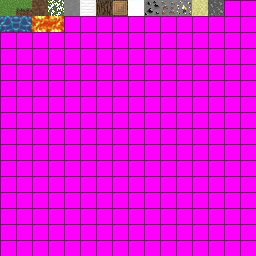
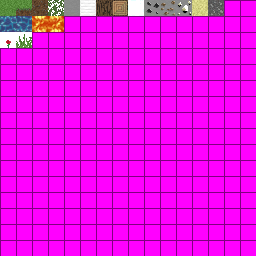
hello again, my exams went amazing, anyways, i retextured some of the textures, so now they are not stolen (sorry jdh), i also added cross blocks (like rose and grass_cross) spawning on some grass

Changed region(s): [[0.0, 0.0, 0.1875, 0.1875], [0.5625, 0.0, 0.75, 0.0625]]

diff --git a/src/chunk.c b/src/chunk.c
@@ -36,6 +36,8 @@ int lookup_atlas[] = {
     12,12,12,12,12,12,  // SAND
     13,13,13,13,13,13,  // GRAVEL
     18,18,18,18,18,18,  // LAVA
+    32,32,32,32,32,32,  // ROSE
+    33,33,33,33,33,33,  // GRASS_CROSS
 };
 
 int lookup_transparent[] = {
@@ -54,6 +56,8 @@ int lookup_transparent[] = {
     0, // SAND
     0, // GRAVEL
     0, // LAVA
+    1, // ROSE
+    1, // GRASS_CROSS
 };
 
 int lookup_sounds[] = {
@@ -72,7 +76,36 @@ int lookup_sounds[] = {
     2, // SAND
     2, // GRAVEL
     0, // LAVA
+    0, // ROSE
+    0, // GRASS_CROSS
 };
+
+int lookup_cross[] = {
+    0, // AIR
+    0, // GRASS
+    0, // DIRT
+    0, // LEAVES
+    0, // STONE
+    0, // IRON_BLOCK
+    0, // WATER
+    0, // LOG
+    0, // GLASS
+    0, // COAL_ORE
+    0, // COPPER_ORE
+    0, // GOLD_ORE
+    0, // SAND
+    0, // GRAVEL
+    0, // LAVA
+    1, // ROSE
+    1, // GRASS_CROSS
+};
+
+static inline int is_cross_block(uint16_t tile_id) {
+    if (tile_id >= (uint16_t)(sizeof(lookup_cross) / sizeof(lookup_cross[0])))
+        return 0;
+    return lookup_cross[tile_id] != 0;
+}
+
 
 uint16_t chunk_sound_pack(uint16_t tile_id)
 {
@@ -263,6 +296,29 @@ void chunk_generate(Chunk* chunk) {
         }
     }
 
+    for (int x = 0; x < CHUNK_WIDTH; x++) {
+        for (int z = 0; z < CHUNK_DEPTH; z++) {
+            int wx = gen_chunk_x * CHUNK_WIDTH + x;
+            int wz = gen_chunk_z * CHUNK_DEPTH + z;
+            int terrain_height = get_terrain_height(wx, wz);
+            
+            if (terrain_height <= SEA_LEVEL + BEACH_HEIGHT + 1) continue;
+            
+            int surface_y = terrain_height;
+            int idx = x + CHUNK_WIDTH * (surface_y + CHUNK_HEIGHT * z);
+            if (chunk->data[idx] != GRASS) continue;
+            
+            if (RANDF() > 0.05f) continue;
+            
+            uint16_t decoration = (RANDF() < 0.7f) ? GRASS_CROSS : ROSE;
+            
+            int above_y = surface_y + 1;
+            if (above_y < CHUNK_HEIGHT) {
+                int above_idx = x + CHUNK_WIDTH * (above_y + CHUNK_HEIGHT * z);
+                chunk->data[above_idx] = decoration;
+            }
+        }
+    }
 
     for (int i = 0; i < 10; i++) { // ores
         {
@@ -538,9 +594,9 @@ void chunk_rebuild(Chunk* chunk, struct World* world, int cx, int cz) {
     int max_vertices = max_faces * 4;
     int max_indices = max_faces * 6;
 
-    float* model_vertices = (float*)malloc(max_vertices * 5 * sizeof(float));
+    float* model_vertices = (float*)malloc(max_vertices * 8 * sizeof(float)); // 8 attributes per vertex (xyz, uv, normal)
     int* model_indices = (int*)malloc(max_indices * sizeof(int));
-    float* water_vertices = (float*)malloc(max_vertices * 5 * sizeof(float));
+    float* water_vertices = (float*)malloc(max_vertices * 8 * sizeof(float));
     int* water_indices = (int*)malloc(max_indices * sizeof(int));
 
     int v_cursor = 0, i_cursor = 0;
@@ -564,9 +620,130 @@ void chunk_rebuild(Chunk* chunk, struct World* world, int cx, int cz) {
 
                 float pos[3] = {(float)x, (float)y, (float)z};
 
-                push_face_to_buffer(tile_id, pos, world, wx, wy, wz,
-                                  model_vertices, model_indices, &v_cursor, &i_cursor,
-                                  water_vertices, water_indices, &w_v_cursor, &w_i_cursor);
+                if (is_cross_block(tile_id)) {
+                    uint16_t front = world_get_block(world, wx, wy, wz + 1);
+                    uint16_t back  = world_get_block(world, wx, wy, wz - 1);
+                    uint16_t left  = world_get_block(world, wx - 1, wy, wz);
+                    uint16_t right = world_get_block(world, wx + 1, wy, wz);
+                    
+                    if (lookup_transparent[front] || lookup_transparent[back] || 
+                        lookup_transparent[left] || lookup_transparent[right]) {
+                        
+                        float uv[8];
+                        
+                        int atlas_tex1 = atlas_lookup(tile_id, FRONT);
+                        tile_atlas_getuv(atlas_tex1, uv);
+                        
+                        float verts1[4][3] = {
+                            {0.0f, 0.0f, 0.0f},
+                            {1.0f, 0.0f, 1.0f},
+                            {1.0f, 1.0f, 1.0f},
+                            {0.0f, 1.0f, 0.0f}
+                        };
+                        
+                        int v_start = v_cursor / 8;
+                        for (int i2 = 0; i2 < 4; i2++) {
+                            int base = v_cursor;
+                            model_vertices[base + 0] = verts1[i2][0] + pos[0];
+                            model_vertices[base + 1] = verts1[i2][1] + pos[1];
+                            model_vertices[base + 2] = verts1[i2][2] + pos[2];
+                            model_vertices[base + 3] = uv[i2 * 2 + 0];
+                            model_vertices[base + 4] = uv[i2 * 2 + 1];
+                            model_vertices[base + 5] = 0.707f;
+                            model_vertices[base + 6] = 0.0f;
+                            model_vertices[base + 7] = 0.707f;
+                            v_cursor += 8;
+                        }
+                        
+                        model_indices[i_cursor + 0] = v_start + 0;
+                        model_indices[i_cursor + 1] = v_start + 1;
+                        model_indices[i_cursor + 2] = v_start + 2;
+                        model_indices[i_cursor + 3] = v_start + 2;
+                        model_indices[i_cursor + 4] = v_start + 3;
+                        model_indices[i_cursor + 5] = v_start + 0;
+                        i_cursor += 6;
+                        
+                        v_start = v_cursor / 8;
+                        for (int i2 = 0; i2 < 4; i2++) {
+                            int base = v_cursor;
+                            model_vertices[base + 0] = verts1[i2][0] + pos[0];
+                            model_vertices[base + 1] = verts1[i2][1] + pos[1];
+                            model_vertices[base + 2] = verts1[i2][2] + pos[2];
+                            model_vertices[base + 3] = uv[i2 * 2 + 0];
+                            model_vertices[base + 4] = uv[i2 * 2 + 1];
+                            model_vertices[base + 5] = -0.707f;
+                            model_vertices[base + 6] = 0.0f;
+                            model_vertices[base + 7] = -0.707f;
+                            v_cursor += 8;
+                        }
+                        
+                        model_indices[i_cursor + 0] = v_start + 0;
+                        model_indices[i_cursor + 1] = v_start + 2;
+                        model_indices[i_cursor + 2] = v_start + 1;
+                        model_indices[i_cursor + 3] = v_start + 2;
+                        model_indices[i_cursor + 4] = v_start + 0;
+                        model_indices[i_cursor + 5] = v_start + 3;
+                        i_cursor += 6;
+                        
+                        int atlas_tex2 = atlas_lookup(tile_id, BACK);
+                        tile_atlas_getuv(atlas_tex2, uv);
+                        
+                        float verts2[4][3] = {
+                            {1.0f, 0.0f, 0.0f},
+                            {0.0f, 0.0f, 1.0f},
+                            {0.0f, 1.0f, 1.0f},
+                            {1.0f, 1.0f, 0.0f}
+                        };
+                        
+                        v_start = v_cursor / 8;
+                        for (int i2 = 0; i2 < 4; i2++) {
+                            int base = v_cursor;
+                            model_vertices[base + 0] = verts2[i2][0] + pos[0];
+                            model_vertices[base + 1] = verts2[i2][1] + pos[1];
+                            model_vertices[base + 2] = verts2[i2][2] + pos[2];
+                            model_vertices[base + 3] = uv[i2 * 2 + 0];
+                            model_vertices[base + 4] = uv[i2 * 2 + 1];
+                            model_vertices[base + 5] = -0.707f;
+                            model_vertices[base + 6] = 0.0f;
+                            model_vertices[base + 7] = 0.707f;
+                            v_cursor += 8;
+                        }
+                        
+                        model_indices[i_cursor + 0] = v_start + 0;
+                        model_indices[i_cursor + 1] = v_start + 1;
+                        model_indices[i_cursor + 2] = v_start + 2;
+                        model_indices[i_cursor + 3] = v_start + 2;
+                        model_indices[i_cursor + 4] = v_start + 3;
+                        model_indices[i_cursor + 5] = v_start + 0;
+                        i_cursor += 6;
+                        
+                        v_start = v_cursor / 8;
+                        for (int i2 = 0; i2 < 4; i2++) {
+                            int base = v_cursor;
+                            model_vertices[base + 0] = verts2[i2][0] + pos[0];
+                            model_vertices[base + 1] = verts2[i2][1] + pos[1];
+                            model_vertices[base + 2] = verts2[i2][2] + pos[2];
+                            model_vertices[base + 3] = uv[i2 * 2 + 0];
+                            model_vertices[base + 4] = uv[i2 * 2 + 1];
+                            model_vertices[base + 5] = 0.707f;
+                            model_vertices[base + 6] = 0.0f;
+                            model_vertices[base + 7] = -0.707f;
+                            v_cursor += 8;
+                        }
+                        
+                        model_indices[i_cursor + 0] = v_start + 0;
+                        model_indices[i_cursor + 1] = v_start + 2;
+                        model_indices[i_cursor + 2] = v_start + 1;
+                        model_indices[i_cursor + 3] = v_start + 2;
+                        model_indices[i_cursor + 4] = v_start + 0;
+                        model_indices[i_cursor + 5] = v_start + 3;
+                        i_cursor += 6;
+                    }
+                } else {
+                    push_face_to_buffer(tile_id, pos, world, wx, wy, wz,
+                                      model_vertices, model_indices, &v_cursor, &i_cursor,
+                                      water_vertices, water_indices, &w_v_cursor, &w_i_cursor);
+                }
             }
         }
     }

diff --git a/src/game.c b/src/game.c
@@ -187,8 +187,15 @@ void game_init() {
 
     ambient = sound_load("assets/sounds/ambient.wav");
     sound_set_looping(ambient, true);
-    sound_set_volume(ambient, 0.5f);
+    sound_set_volume(ambient, 0.2f);
     sound_play(ambient);
+
+    sound_t* music;
+
+    music = sound_load("assets/sounds/taswell.wav");
+    sound_set_looping(music, true);
+    sound_set_volume(music, 0.5f);
+    sound_play(music);
 }
 
 static void rebuild_chunks_for_block(World* world, int wx, int wy, int wz) {
@@ -286,7 +293,7 @@ void game_tick(float dt) {
             player_get_pos(&player, p);
 
             if (py != p[1]) {
-                uint16_t block = IRON_BLOCK;
+                uint16_t block = ROSE;
 
                 int variant = RAND(0, 3);
                 sound_t* s = pick_pack_sound(block, variant);

diff --git a/src/chunk.h b/src/chunk.h
@@ -25,6 +25,8 @@ typedef enum : uint16_t {
     SAND = 12,
     GRAVEL = 13,
     LAVA = 14,
+    ROSE = 15,
+    GRASS_CROSS = 16,
 } Tile;
 
 typedef struct {